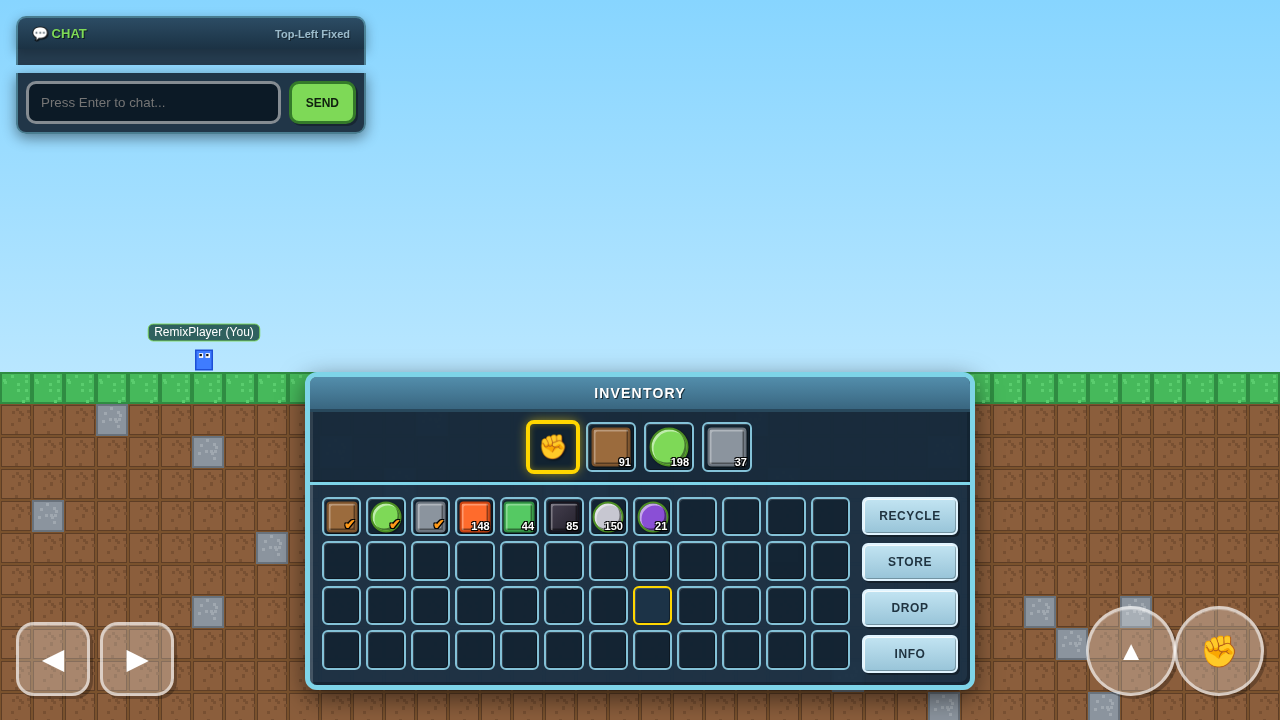
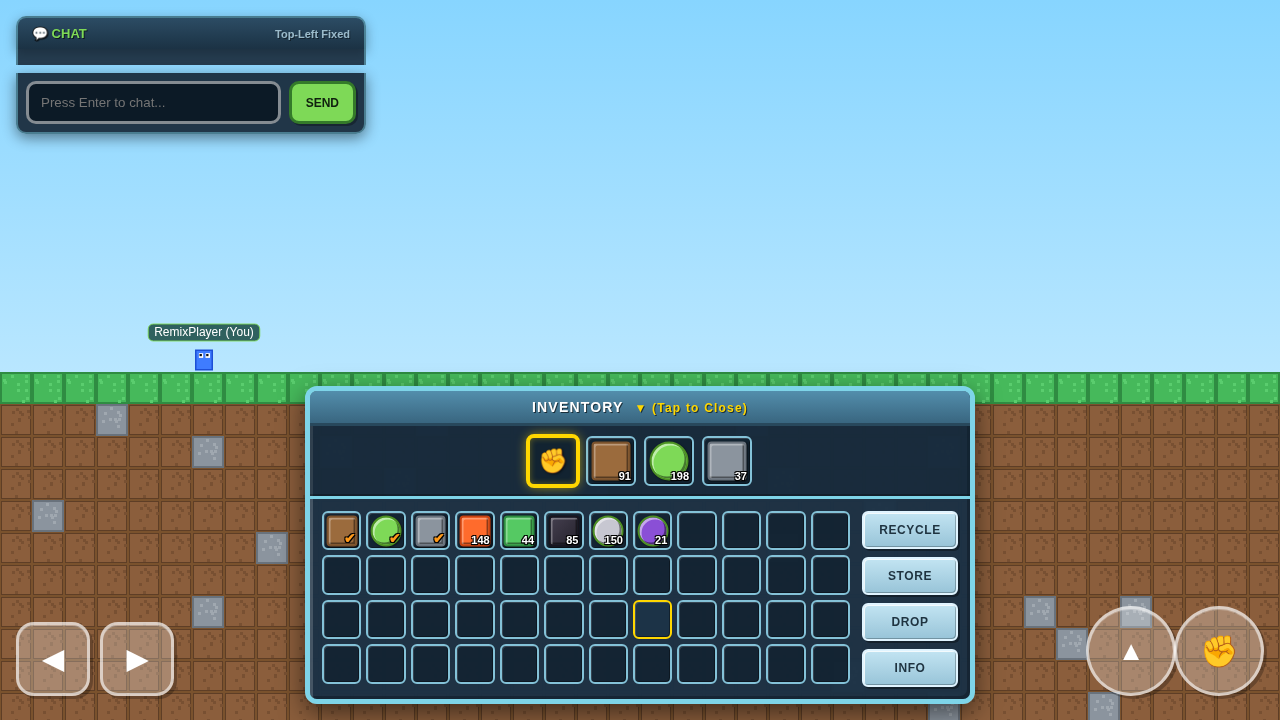
Improve inventory UI behavior and visuals
Increase drag tap tolerance from 6px to 22px to reduce accidental drags on mobile. Add updateInventoryTitle() to show ▲/▼ and '(Tap to Open/Close)' in the inventory header, update it on init and whenever the inventory is toggled. Nudge the inventory window from bottom:30px to bottom:16px for better positioning. Replace several UI assets (cave_cracks.png, ui_collapsed.png, ui_expanded.png).

Changed region(s): [[0.2188, 0.4889, 0.7812, 1.0]]

diff --git a/js/growtopiaUI.js b/js/growtopiaUI.js
@@ -94,7 +94,8 @@ function makeDraggable(element, handle, { axis = 'both', anchor = 'top', onTap, 
     element.style.transition = '';
     document.body.style.userSelect = '';
     // Treat a near-stationary press as a click (toggle), not a drag.
-    if (moved < 6 && typeof onTap === 'function') onTap();
+    // Increased tolerance to 22px so mobile taps and slight mouse jitters reliably trigger onTap.
+    if (moved < 22 && typeof onTap === 'function') onTap();
   };
 
   handle.addEventListener('pointerdown', startDrag);
@@ -286,6 +287,17 @@ export function makeChatDraggable() {
   });
 }
 
+function updateInventoryTitle() {
+  if (!inventoryHeader || !inventoryWindow) return;
+  const titleEl = inventoryHeader.querySelector('.title');
+  if (!titleEl) return;
+  if (inventoryWindow.classList.contains('collapsed')) {
+    titleEl.innerHTML = 'INVENTORY <span style="color:#ffd700; font-size:12px; font-weight:900; margin-left:6px;">▲ (Tap to Open)</span>';
+  } else {
+    titleEl.innerHTML = 'INVENTORY <span style="color:#ffd700; font-size:12px; font-weight:900; margin-left:6px;">▼ (Tap to Close)</span>';
+  }
+}
+
 // ─── Main Initialization ─────────────────────────────────────────────────
 export function initGrowtopiaUI() {
   // Wire the floating inventory window. It intentionally stays hidden
@@ -293,7 +305,7 @@ export function initGrowtopiaUI() {
   // the login screen would sit on top of the Join button and block input.
   // main.js shows it inside joinMultiplayerGame() once the player is in-game.
   if (inventoryWindow) {
-    inventoryWindow.style.bottom = '30px';
+    inventoryWindow.style.bottom = '16px';
     inventoryWindow.style.left = '50%';
     inventoryWindow.style.transform = 'translateX(-50%)';
     // Start collapsed: only the always-visible dragger + 4 quick slots show,
@@ -307,10 +319,15 @@ export function initGrowtopiaUI() {
       makeDraggable(inventoryWindow, inventoryHeader, {
         axis: 'y',
         anchor: 'bottom',
-        onTap: () => inventoryWindow.classList.toggle('collapsed')
+        onTap: () => {
+          inventoryWindow.classList.toggle('collapsed');
+          updateInventoryTitle();
+        }
       });
     }
   }
+
+  updateInventoryTitle();
 
   // Render initial inventory grid
   renderGrowtopiaInventory();